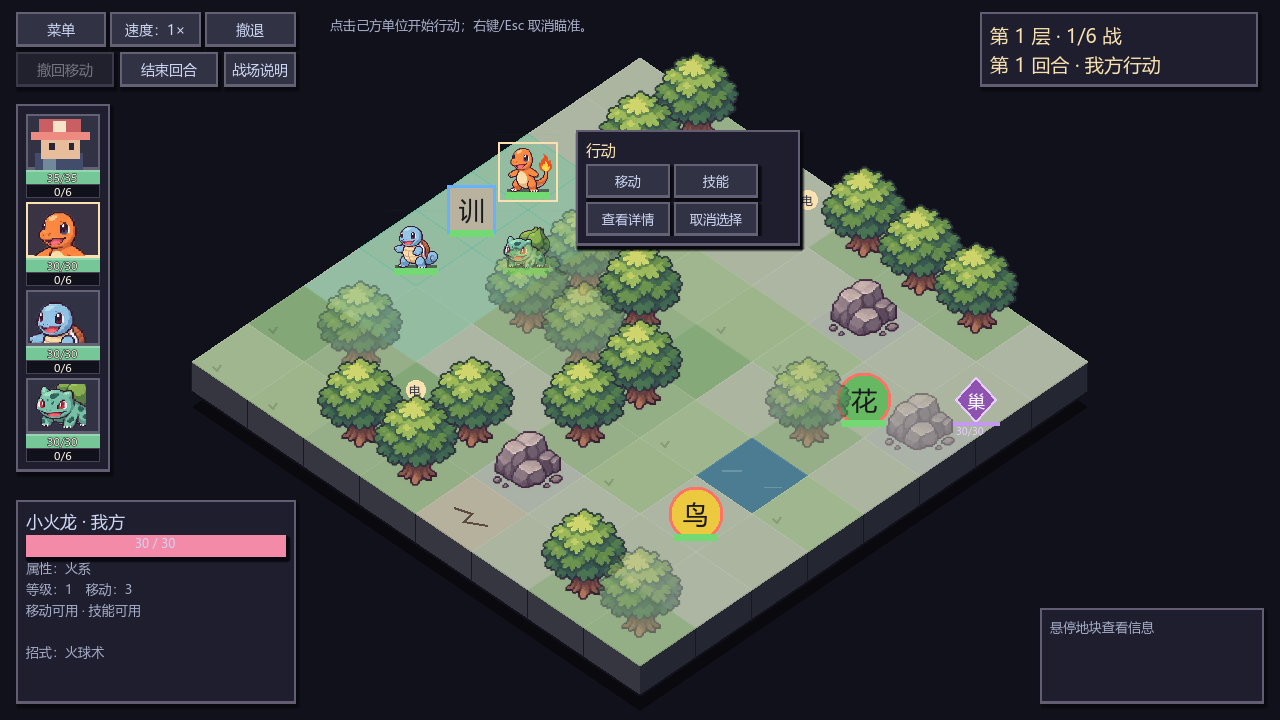
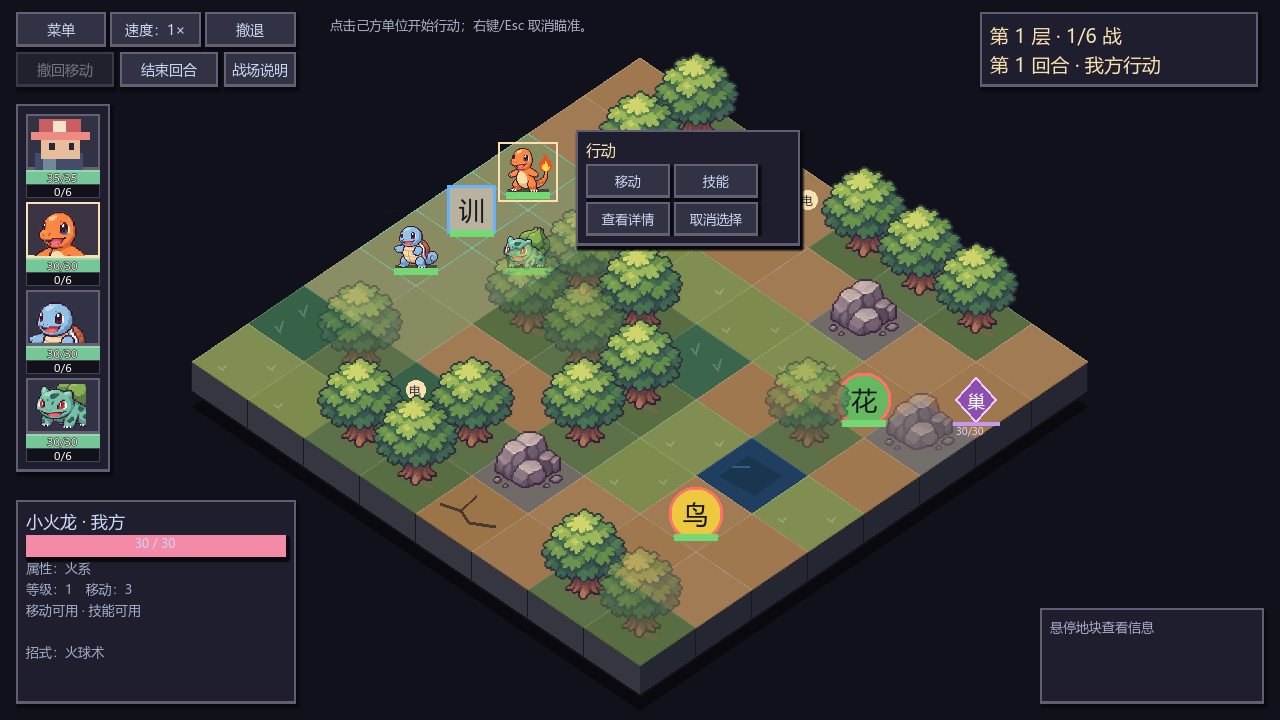
art: design fourteen readable terrain materials with simple color planes

Changed region(s): [[0.1562, 0.0917, 0.8438, 0.9167], [0.5625, 0.1528, 0.5938, 0.1833]]

diff --git a/sample/ISOMETRIC.md b/sample/ISOMETRIC.md
@@ -64,3 +64,12 @@
 - 行动面板恢复为单位旁浮窗，优先位于右侧，右边空间不足时翻至左侧，上下限制在视口内；移动和技能瞄准时沿用原有隐藏规则。
 - 截图battle-isometric.png展示点击单位后的主行动菜单；isometric-actions.png展示技能菜单。
 - 验证：真实1280×720视口下专项391检查点，含四角弹窗位置/翻转、选格、移动/撤销与技能发动；界面流程150检查点通过。
+
+## 全地形简洁色块材质（2026-11-11）
+
+根据用户提供的简洁沙地参考，撤弃复杂生成图集（没有复制或接入项目），采用可编辑的Godot几何绘制实现全部14种地形。普通地面回到中等明度暖棕色，草丛为深绿、浅草为橄榄绿；水面/深水/冰面分别采用短波纹、深色内面、斜向反光；熔岩、易碎地块、深坑、藤蔓、蓝火只保留少数结构形状。岩山改为高棱峰，与普通岩障区分。
+
+- 统一实现：sample/simple_terrain.gd，14种基础色及辨认特征，与TerrainDB.ALL逐一对应。
+- 全地形对照图：sample/terrain-catalogue.png；截图脚本sample/capture_terrain.gd。
+- 战斗实机图：sample/battle-isometric.png。放大的树木/岩石、头部头像、单位旁行动菜单保留。
+- 本轮验证：专项406检查点、界面流程150检查点通过。对照图与战斗图渲染无脚本错误。
